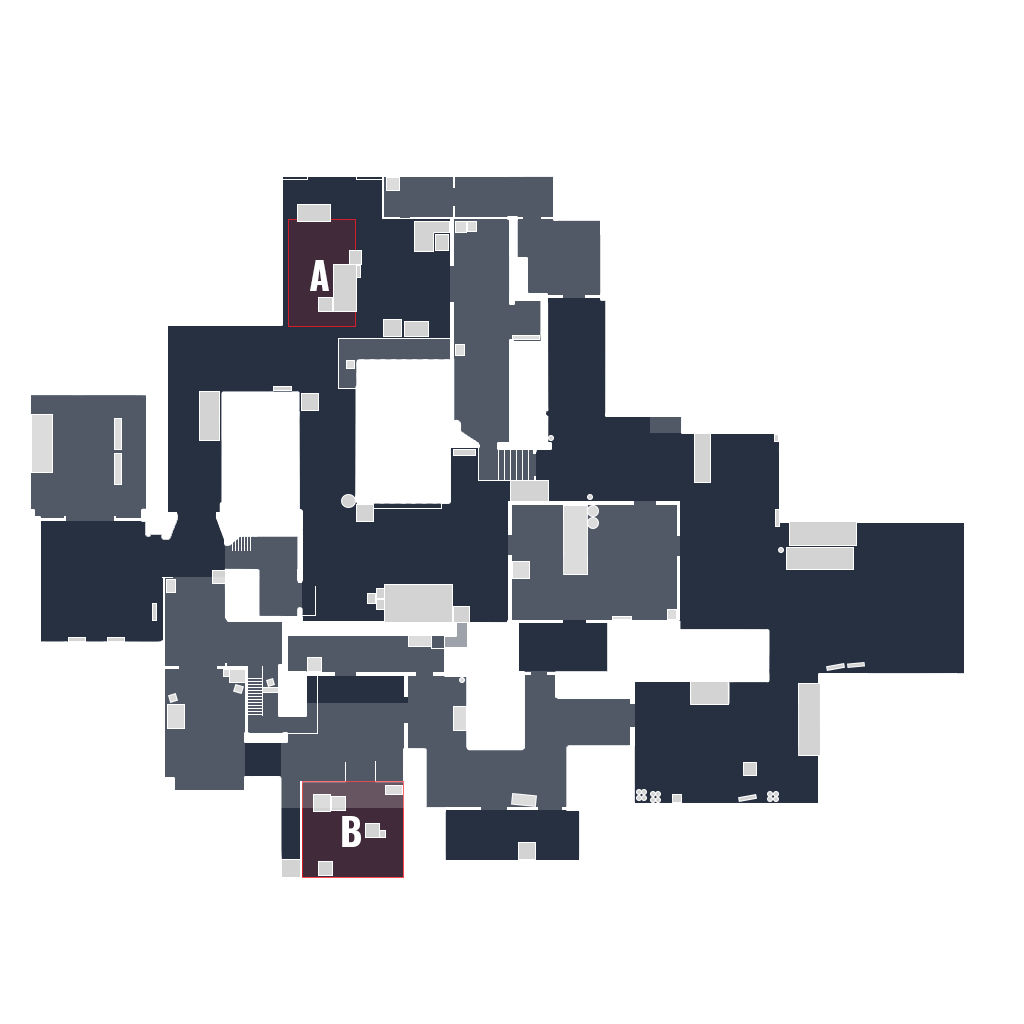
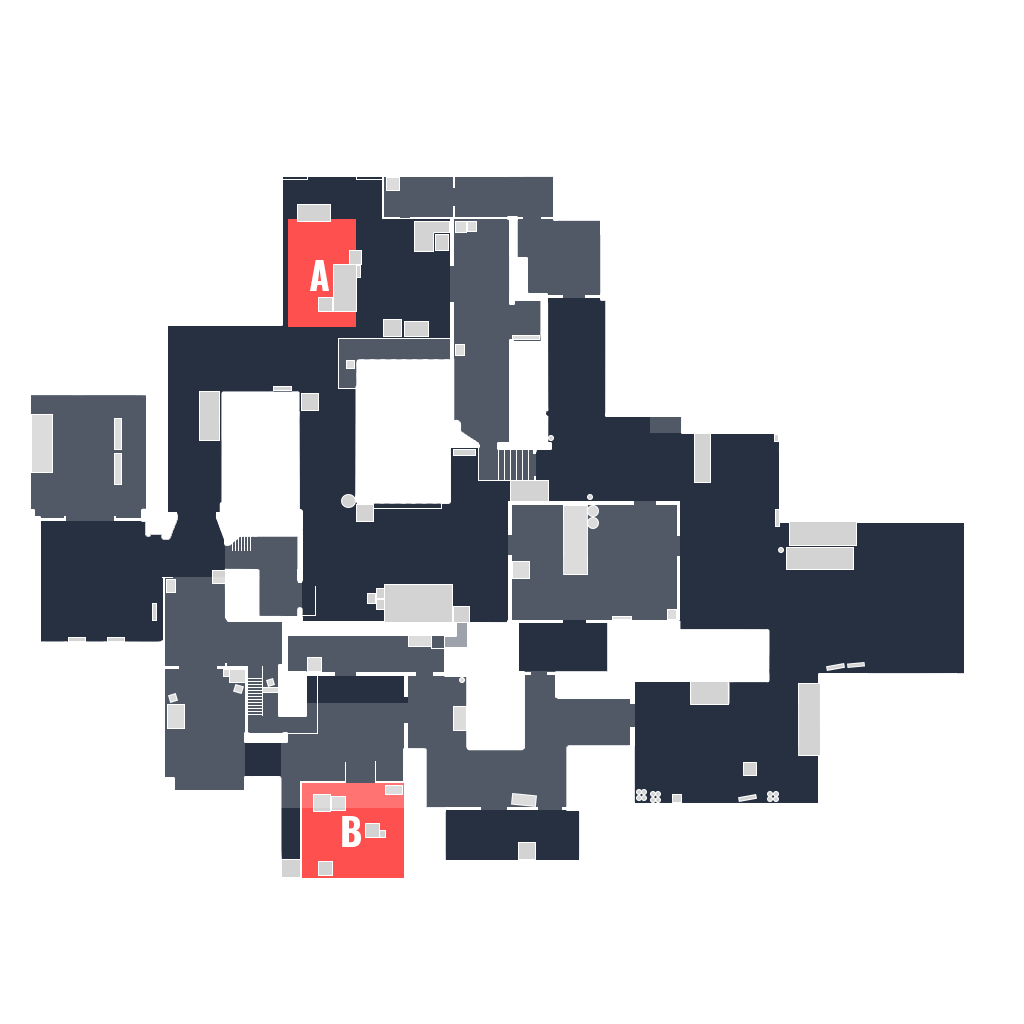
Add JTs radar images and style setting

Changed region(s): [[0.2812, 0.75, 0.4062, 0.875], [0.2812, 0.1875, 0.375, 0.3438]]

diff --git a/HlaeObsTools/ViewModels/Docks/RadarDockViewModel.cs b/HlaeObsTools/ViewModels/Docks/RadarDockViewModel.cs
@@ -1559,26 +1559,54 @@ public sealed class RadarDockViewModel : Tool, IDisposable
 
         HasRadar = true;
         RadarImage?.Dispose();
+        RadarImage = null;
 
-        try
-        {
-            var relative = cfg.ImagePath ?? $"/hud/img/radars/ingame/{RadarConfigProvider.Sanitize(mapName)}.png";
-
-            // Our assets live under Assets/hud/... (no extra /img segment). Normalize if needed.
-            if (relative.StartsWith("/hud/img/", StringComparison.OrdinalIgnoreCase))
+        var sanitizedMapName = RadarConfigProvider.Sanitize(mapName);
+        var ingameImage = $"/hud/img/radars/ingame/{sanitizedMapName}.png";
+        var imageCandidates = sanitizedMapName == "de_nuke" && _settings.RadarStyle != "JTs"
+            ? new[] { "/hud/img/radars/simpleradar/de_nuke.webp" }
+            : _settings.RadarStyle switch
             {
-                relative = "/hud/" + relative.Substring("/hud/img/".Length);
-            }
+                "simpleradar" => new[]
+                {
+                    $"/hud/img/radars/simpleradar/{sanitizedMapName}.webp",
+                    ingameImage,
+                    cfg.ImagePath
+                },
+                "JTs" => new[]
+                {
+                    $"/hud/img/radars/jts/{sanitizedMapName}.png",
+                    ingameImage,
+                    cfg.ImagePath
+                },
+                _ => new[] { ingameImage, cfg.ImagePath }
+            };
 
-            var trimmed = relative.TrimStart('/');
-            var uri = new Uri($"avares://HlaeObsTools/Assets/{trimmed}");
-            RadarImage = new Bitmap(AssetLoader.Open(uri));
-        }
-        catch (Exception ex)
+        foreach (var imagePath in imageCandidates.Where(path => !string.IsNullOrWhiteSpace(path)).Distinct(StringComparer.OrdinalIgnoreCase))
         {
-            Console.WriteLine($"Failed to load radar image for {mapName}: {ex.Message}");
-            RadarImage = null;
+            try
+            {
+                RadarImage = new Bitmap(AssetLoader.Open(CreateRadarAssetUri(imagePath!)));
+                return;
+            }
+            catch
+            {
+                // The requested style does not cover this map. Try the next fallback.
+            }
         }
+
+        Console.WriteLine($"Failed to load radar image for {mapName}.");
+    }
+
+    private static Uri CreateRadarAssetUri(string imagePath)
+    {
+        // Our assets live under Assets/hud/... (no extra /img segment). Normalize if needed.
+        if (imagePath.StartsWith("/hud/img/", StringComparison.OrdinalIgnoreCase))
+        {
+            imagePath = "/hud/" + imagePath.Substring("/hud/img/".Length);
+        }
+
+        return new Uri($"avares://HlaeObsTools/Assets/{imagePath.TrimStart('/')}");
     }
 
     public void Dispose()
@@ -1611,6 +1639,10 @@ public sealed class RadarDockViewModel : Tool, IDisposable
             {
                 droppedDefuser.SetBaseScale(_settings.MarkerScale);
             }
+        }
+        else if (e.PropertyName == nameof(RadarSettings.RadarStyle) && !string.IsNullOrWhiteSpace(_currentMap))
+        {
+            LoadRadarResources(_currentMap);
         }
         else if (e.PropertyName == nameof(RadarSettings.UseAltPlayerBinds))
         {

diff --git a/HlaeObsTools/ViewModels/RadarSettings.cs b/HlaeObsTools/ViewModels/RadarSettings.cs
@@ -1,5 +1,7 @@
 using System;
+using System.Collections.Generic;
 using System.ComponentModel;
+using System.Linq;
 using HlaeObsTools.ViewModels;
 
 namespace HlaeObsTools.ViewModels;
@@ -9,12 +11,31 @@ namespace HlaeObsTools.ViewModels;
 /// </summary>
 public sealed class RadarSettings : ViewModelBase
 {
+    public static readonly IReadOnlyList<string> RadarStyleOptions = ["ingame", "simpleradar", "JTs"];
+
+    public IReadOnlyList<string> RadarStyles => RadarStyleOptions;
+
     private double _radarScale = 1.0;
     private double _markerScale = 1.0;
     private double _heightScaleMultiplier = 1.0;
     private bool _useAltPlayerBinds;
     private bool _displayNumbersTopmost = true;
     private bool _showPlayerNames = true;
+    private string _radarStyle = "ingame";
+
+    /// <summary>
+    /// The visual style used for the radar map images.
+    /// </summary>
+    public string RadarStyle
+    {
+        get => _radarStyle;
+        set
+        {
+            var normalized = RadarStyleOptions.FirstOrDefault(style =>
+                string.Equals(style, value, StringComparison.OrdinalIgnoreCase)) ?? "ingame";
+            SetProperty(ref _radarStyle, normalized);
+        }
+    }
 
     /// <summary>
     /// Scale factor for the radar view.

diff --git a/HlaeObsTools/ViewModels/MainDockFactory.cs b/HlaeObsTools/ViewModels/MainDockFactory.cs
@@ -244,7 +244,8 @@ public class MainDockFactory : Factory, IDisposable
             HeightScaleMultiplier = _storedSettings.HeightScaleMultiplier,
             UseAltPlayerBinds = _storedSettings.UseAltPlayerBinds,
             DisplayNumbersTopmost = _storedSettings.DisplayNumbersTopmost,
-            ShowPlayerNames = _storedSettings.ShowPlayerNames
+            ShowPlayerNames = _storedSettings.ShowPlayerNames,
+            RadarStyle = _storedSettings.RadarStyle
         };
         var hudSettings = new HudSettings
         {

diff --git a/HlaeObsTools/ViewModels/Docks/SettingsDockViewModel.cs b/HlaeObsTools/ViewModels/Docks/SettingsDockViewModel.cs
@@ -1736,6 +1736,7 @@ namespace HlaeObsTools.ViewModels.Docks
                 UseAltPlayerBinds = _radarSettings.UseAltPlayerBinds,
                 DisplayNumbersTopmost = _radarSettings.DisplayNumbersTopmost,
                 ShowPlayerNames = _radarSettings.ShowPlayerNames,
+                RadarStyle = _radarSettings.RadarStyle,
                 WebSocketHost = WebSocketHost,
                 WebSocketPort = WebSocketPort,
                 GraphicsProducerHost = WebSocketHost,

diff --git a/HlaeObsTools/Services/Settings/SettingsStorage.cs b/HlaeObsTools/Services/Settings/SettingsStorage.cs
@@ -70,6 +70,7 @@ public class AppSettingsData
     public bool UseAltPlayerBinds { get; set; } = false;
     public bool DisplayNumbersTopmost { get; set; } = true;
     public bool ShowPlayerNames { get; set; } = true;
+    public string RadarStyle { get; set; } = "ingame";
     public string WebSocketHost { get; set; } = "127.0.0.1";
     public int WebSocketPort { get; set; } = 31338;
     public string GraphicsProducerHost { get; set; } = "127.0.0.1";

diff --git a/README.md b/README.md
@@ -61,9 +61,11 @@ Starting from v0.2.3, this project is licensed under a source-available license.
 Some included assets (e.g. Counter-Strike HUD icons) are © Valve Corporation
 and are not covered by the included LICENSE. See `THIRD_PARTY_LICENSES.md` for details.
 
-Thanks to the HLAE team, this project would not be possible without their decades long contributions to the Counter-Strike scene.
+Thanks to the [HLAE](https://github.com/advancedfx/advancedfx) team, this project would not be possible without their decades long contributions to the Counter-Strike scene.
 
-Thanks to @drweissbrot , his cs-hud repo helped greatly in designing the radar and hud.
+Thanks to [JT](https://github.com/JohnTimmermann) for allowing the use of his radar images, originally created for [JTs-Hud](https://github.com/JohnTimmermann/JTs-Hud) (check it out!).
+
+Thanks to [drweissbrot](https://github.com/drweissbrot) , his [cs-hud](https://github.com/drweissbrot/cs-hud) repo helped greatly in designing the radar and hud.
 
 
 ## Donate
